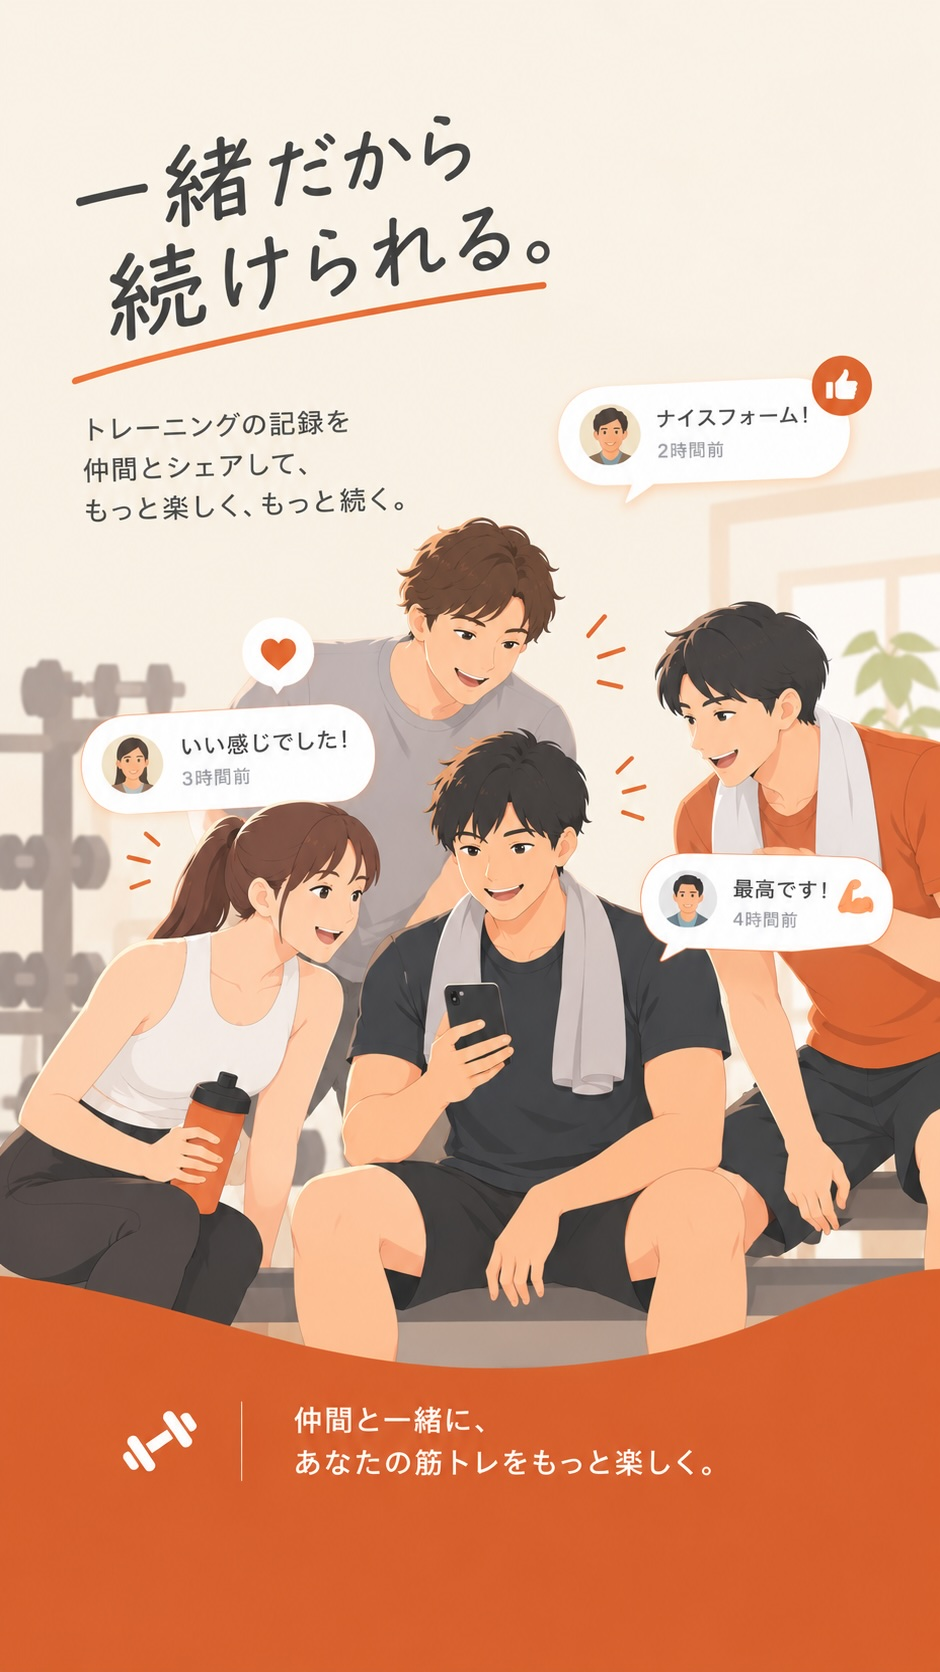
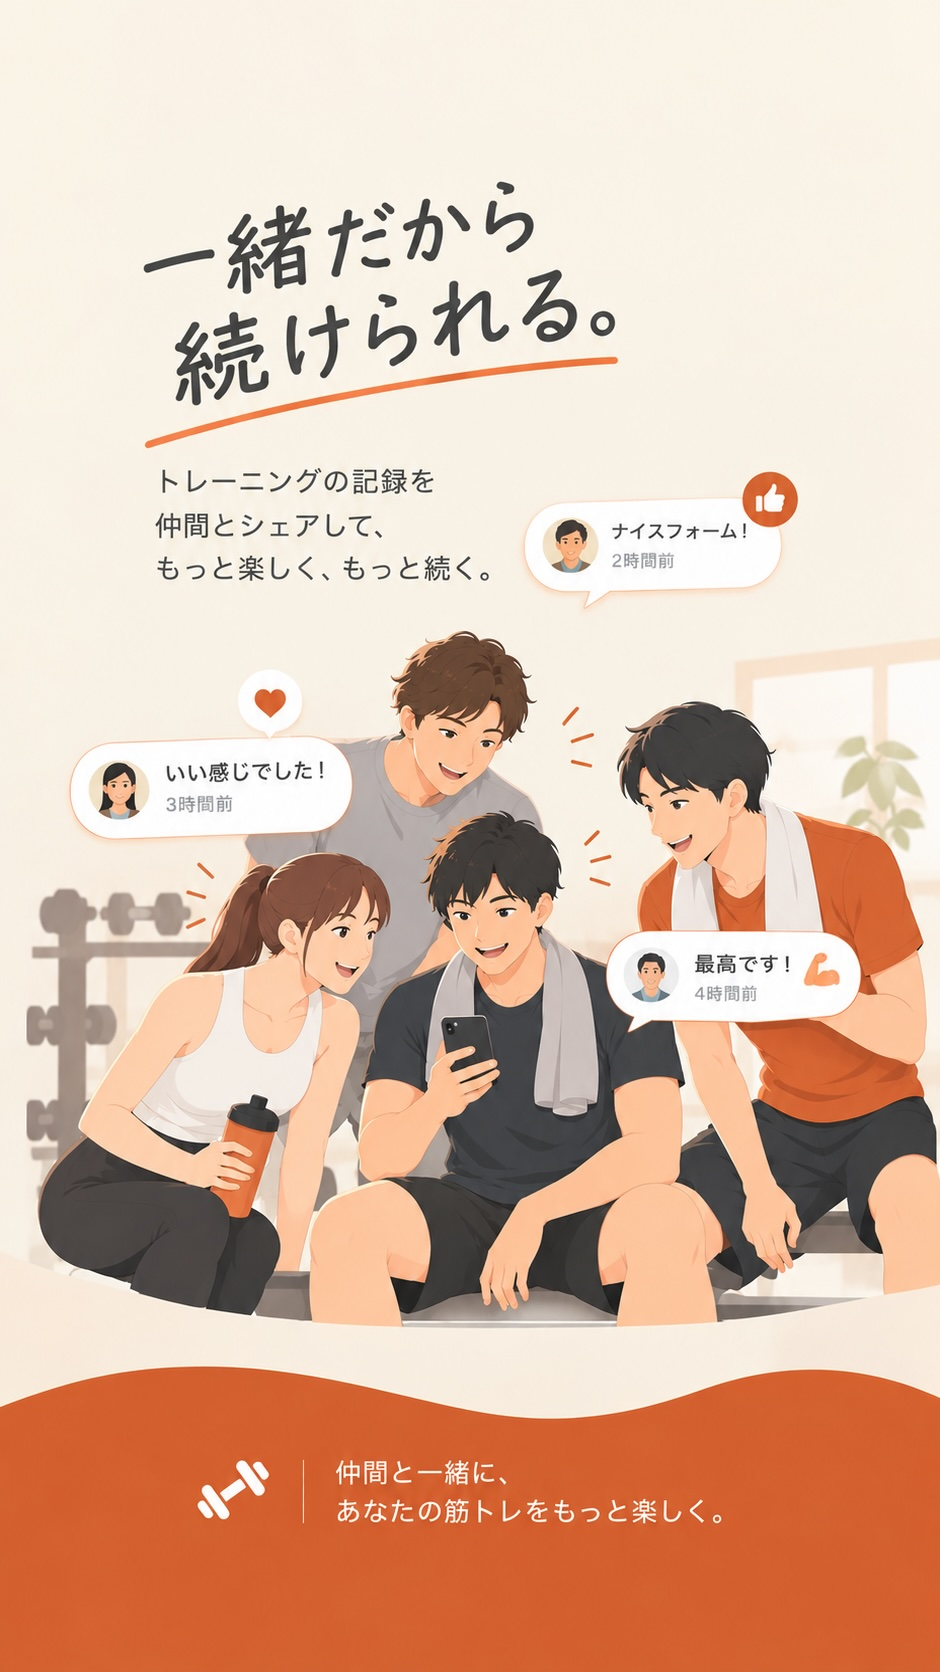
fix: トップ画面イラストの構図調整で左右の見切れを解消
top_image.jpeg（縦横比0.562は維持）の構図を、人物・テキスト・
吹き出しがより中央寄りに収まるよう調整した版に差し替え。
375〜430px幅で見切れが完全に無くなったことを実機確認した。
docs/spec.md・docs/backlog.mdを更新し、既知の制約だった項目を
解決済みに移動。

diff --git a/frontend/app/components/WelcomeScreen.vue b/frontend/app/components/WelcomeScreen.vue
@@ -11,7 +11,7 @@ import topImage from '~/assets/images/top_image.jpeg'
          下部のオレンジの余白（ボタンの重なる位置）とのバランスが崩れてしまうため -->
     <img :src="topImage" alt="トレ部" class="h-full w-full object-cover object-bottom" />
 
-    <!-- イラスト下部の無地のオレンジ部分（画像下端から約11.6%）にボタンを重ねる。
+    <!-- イラスト下部の無地のオレンジ部分（画像下端から約9%）にボタンを重ねる。
          安全にボタンが収まる余白であることをtop_image.jpegのピクセル解析で確認済み -->
     <div class="absolute inset-x-6 bottom-5 flex gap-3">
       <NuxtLink

diff --git a/docs/spec.md b/docs/spec.md
@@ -190,8 +190,8 @@ MVP完成後の棚卸しで見つかった、**ドキュメントと実装のズ
   （`frontend/app/assets/images/top_image.jpeg`）を画面いっぱいに`object-cover`で敷き、「ログイン」
   「新規登録」ボタンはイラスト下部の無地オレンジの余白部分に重ねて配置する（ボタンをイラストの下に
   別領域として置く案・縦積み案も検討したが、イラストを画面いっぱいに見せたいという要望に沿って
-  オーバーレイ方式にした）。余白部分の位置はPythonでピクセル解析し、画像下端から約11.6%
-  （y座標88.4%〜100%）が無地であることを確認したうえでボタンの絶対配置位置を決めた。
+  オーバーレイ方式にした）。余白部分の位置はPythonでピクセル解析し、画像下端から約9%
+  （y座標91%〜100%）が無地であることを確認したうえでボタンの絶対配置位置を決めた。
   `app/assets/`配下に置きコンポーネント側で`import`する形にした（`public/`は未加工でそのまま配信される
   ため、ビルド時にViteが最適化する`assets/`側を採用。既存の`assets/css`/`assets/data`と揃える）
 - `object-position`はデフォルトの中央基準ではなく`object-bottom`（画像下端基準）にした。中央基準だと
@@ -199,12 +199,10 @@ MVP完成後の棚卸しで見つかった、**ドキュメントと実装のズ
   重なる位置）とのバランスが画面サイズによって崩れてしまうという指摘（2026-09-09）を受けての対応。
   下端基準にすることで、`object-cover`が横方向・縦方向どちらを基準にスケールする画面比率でも、
   常に画像の下端＝オレンジの余白が画面下端に揃う
-- **既知の制約（縮小済み）**：初回導入時の`top_image.png`（縦横比2:3、1024×1536）はスマホ画面
+- **左右の見切れは解消済み**：初回導入時の`top_image.png`（縦横比2:3、1024×1536）はスマホ画面
   （概ね0.42〜0.52）と縦横比の差が大きく、`object-cover`で左右が大きく見切れていた。2026-09-09に
-  縦横比0.562（940×1672）の`top_image.jpeg`へ差し替え、見切れをかなり軽減した（375〜430px幅で
-  確認、右端の吹き出しは見切れなくなった。左端の文字がわずかに見切れる程度は残る）。
-  縦横比のミスマッチ自体は解消していないため、完全に見切れを無くすにはスマホ画面により近い
-  縦横比（9:16〜9:19程度）のイラストが必要（詳細は`docs/backlog.md`「判断保留」節参照）
+  縦横比0.562（940×1672）の`top_image.jpeg`へ差し替え、さらに構図（人物・テキスト・吹き出しを
+  中央寄りに配置）も調整したことで、375〜430px幅で見切れが無いことを確認した
 - スマホ幅（320〜430px程度）で崩れないことを確認した。PC向けの専用レイアウト（横並び等）は
   今回のスコープ外（`docs/backlog.md`「判断保留」節参照）
 
